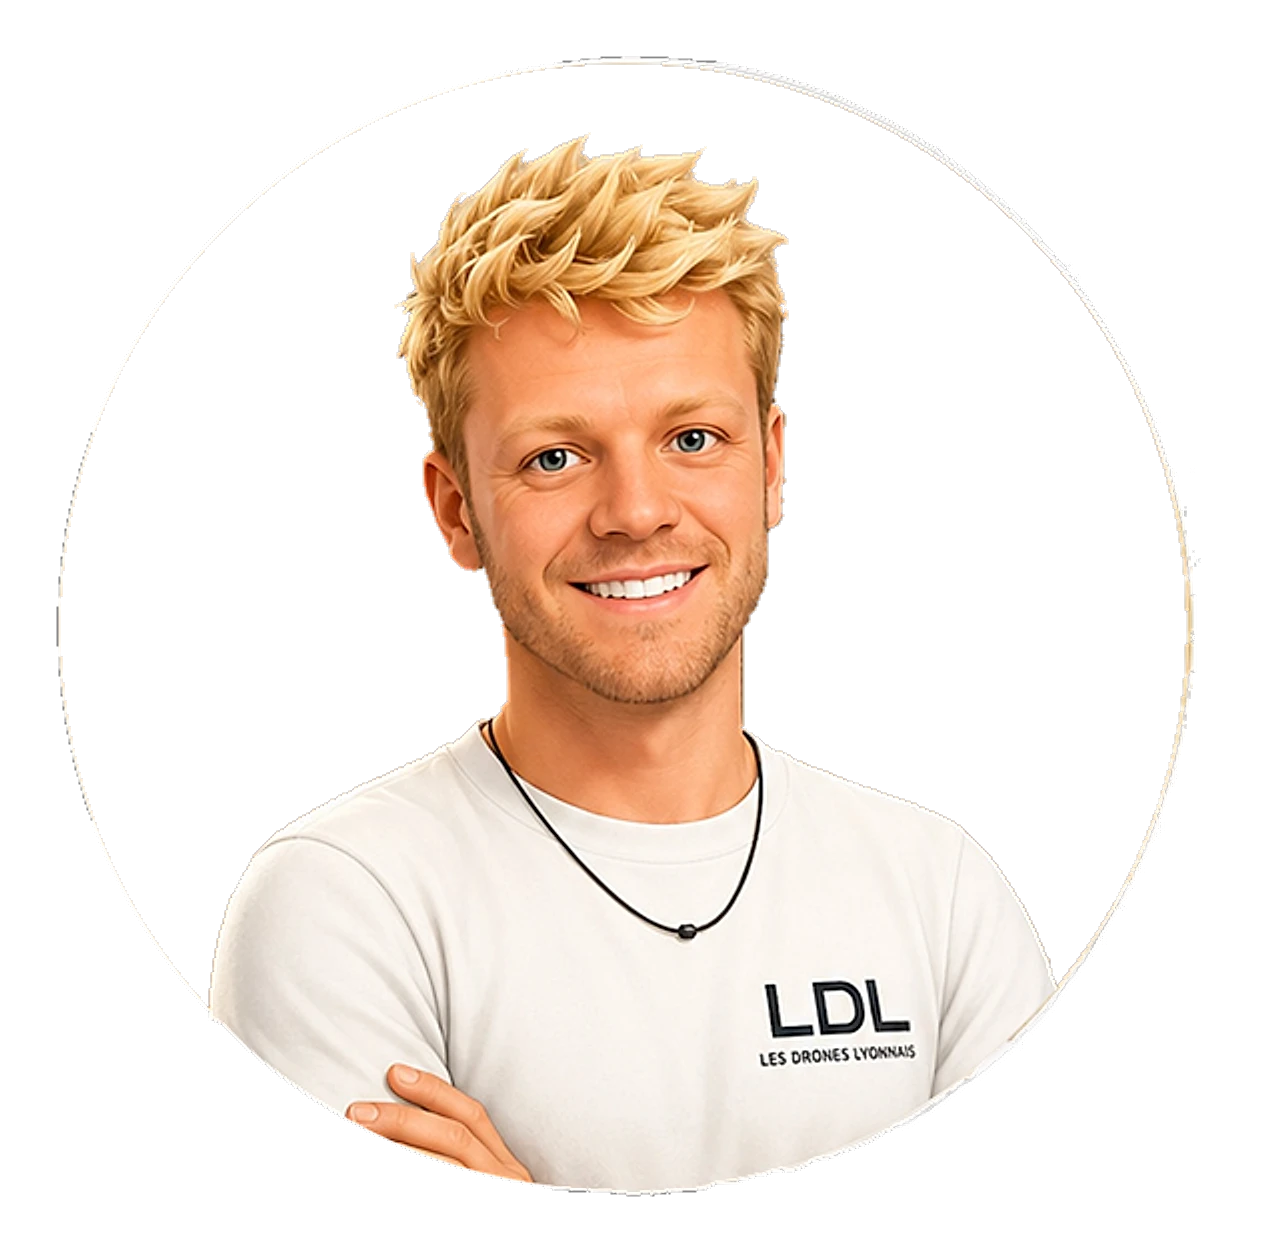
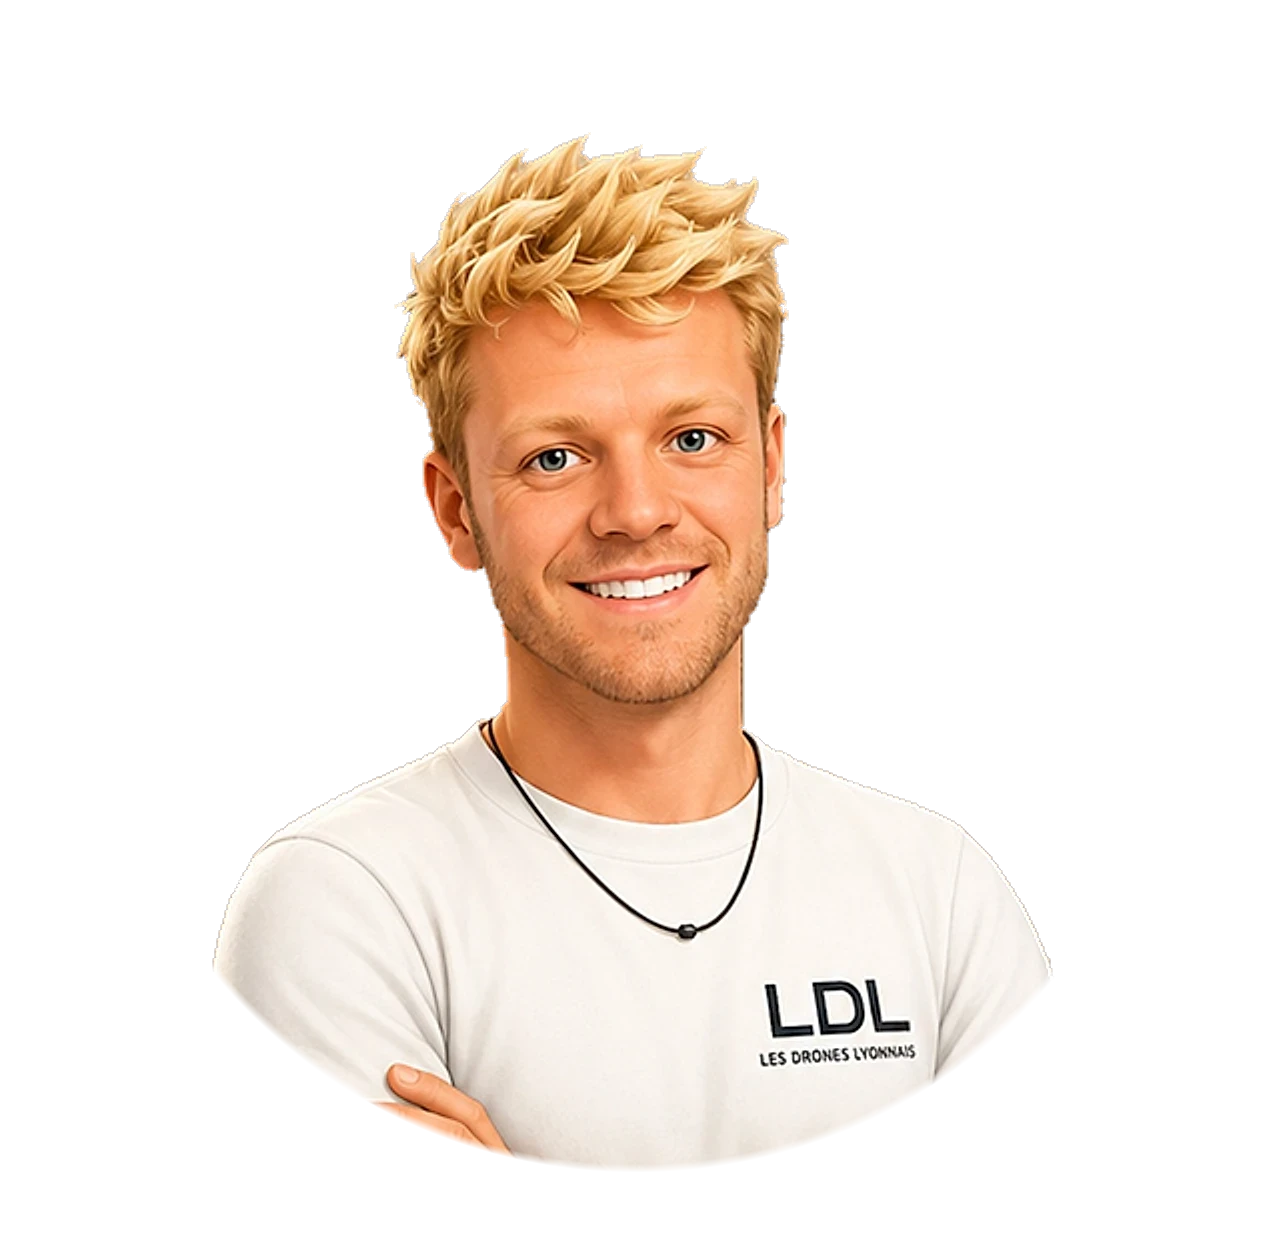
Accueil : portraits vivants de l'équipe
Les photos d'origine prennent vie en WebGL, sans bibliothèque : respiration
du buste, micro-mouvements de tête, regard et rotation de tête qui suivent
la souris (ou regardent autour en l'absence de souris), clignements avec
paupières dans la couleur de la peau, Pop qui halète. Repères par photo
dans data/home.ts. Rendu seulement quand le portrait est visible ; photo
fixe sans WebGL ou en mouvement réduit. Cercle résiduel des avatars
d'origine effacé.

diff --git a/src/lib/live-portrait.ts b/src/lib/live-portrait.ts
@@ -1,0 +1,294 @@
+// Living portraits: the team's own photos, brought to life in WebGL without any library.
+// One fragment shader warps the still photo by zones, driven by a few landmarks per
+// photo (eyes, head, chin; tongue for Pop):
+// - breathing: the chest and shoulders rise and widen slightly;
+// - the head sways, turns towards the pointer (inner features move more than the
+//   outline, which reads as a 3D turn) and the irises follow it;
+// - the eyes blink: eyelids drawn in the colour of the skin under each eye;
+// - Pop pants (his tongue stretches) and blinks.
+// Until WebGL is ready — or without it, or with reduced motion — the plain photo shows.
+
+export interface PortraitRig {
+  /** Eye centres and half-sizes, in texture coordinates (0–1, origin top left). */
+  eyes: [cx: number, cy: number, hw: number, hh: number][];
+  /** Head centre and radii. */
+  head: [cx: number, cy: number, rx: number, ry: number];
+  /** Where the chin meets the neck. */
+  chin: number;
+  /** Pop's tongue: centre x, top y, half width, height. */
+  tongue?: [cx: number, top: number, hw: number, h: number];
+}
+
+const VERT = `
+attribute vec2 aPos;
+varying vec2 vUv;
+void main() {
+  vUv = vec2(aPos.x * 0.5 + 0.5, 0.5 - aPos.y * 0.5);
+  gl_Position = vec4(aPos, 0.0, 1.0);
+}`;
+
+const FRAG = `
+precision highp float;
+varying vec2 vUv;
+uniform sampler2D uTex;
+uniform vec2 uCover;
+uniform vec2 uLook;
+uniform float uTime, uBlink, uBreath, uPant, uDog;
+uniform vec4 uEyeL, uEyeR, uHead, uTongue;
+uniform float uChin;
+
+vec2 rot(vec2 p, vec2 piv, float a) {
+  p -= piv;
+  float c = cos(a), s = sin(a);
+  return vec2(c * p.x - s * p.y, s * p.x + c * p.y) + piv;
+}
+
+float eyeMask(vec2 uv, vec4 e) {
+  return 1.0 - smoothstep(0.5, 1.0, length((uv - e.xy) / e.zw));
+}
+
+vec3 lid(vec3 col, vec2 src, vec4 e) {
+  vec2 q = (src - e.xy) / e.zw;
+  float zone = 1.0 - smoothstep(1.05, 1.35, length(q * vec2(0.92, 0.75)));
+  float lidY = mix(-1.5, 1.15, uBlink);
+  float cover = smoothstep(lidY + 0.2, lidY - 0.2, q.y) * zone;
+  // Eyelid colour: the skin of the cheek just under the eye (above it lies the brow).
+  vec3 skin = texture2D(uTex, e.xy + vec2(0.0, e.w * 3.2)).rgb;
+  skin *= mix(1.0, 0.86, smoothstep(lidY - 0.9, lidY, q.y));
+  col = mix(col, skin, cover);
+  float lash = (1.0 - smoothstep(0.0, 0.22, abs(q.y - lidY))) * zone * smoothstep(0.08, 0.3, uBlink);
+  return mix(col, vec3(0.13, 0.08, 0.06), lash * 0.75);
+}
+
+void main() {
+  // Square canvas over a (nearly square) photo, "object-fit: cover".
+  vec2 uv = 0.5 + (vUv - 0.5) * uCover;
+
+  // Breathing: chest and shoulders rise and widen.
+  float body = smoothstep(uChin - 0.02, uChin + 0.2, uv.y);
+  vec2 shiftBody = vec2((uv.x - uHead.x) * uBreath * 0.012, -uBreath * 0.006) * body;
+
+  // Head: sway, turn towards the pointer, slight roll around the neck.
+  float hd = length((uv - uHead.xy) / uHead.zw);
+  float wHead = 1.0 - smoothstep(0.85, 1.3, hd);
+  float wInner = 1.0 - smoothstep(0.25, 0.8, hd);
+  float roll = uLook.x * 0.03 + sin(uTime * 0.55) * 0.012;
+  vec2 piv = vec2(uHead.x, uChin + 0.05);
+  vec2 shiftHead = uLook * vec2(0.010, 0.007)
+    + vec2(sin(uTime * 0.43) * 0.003, sin(uTime * 0.71) * 0.002 - uBreath * 0.002)
+    + (uv - rot(uv, piv, -roll))
+    + uLook * vec2(0.009, 0.006) * wInner;
+
+  vec2 shift = mix(shiftBody, shiftHead, wHead);
+
+  // Irises follow the pointer inside each eye.
+  vec2 irisL = uLook * vec2(uEyeL.z * 0.22, uEyeL.w * 0.22);
+  vec2 irisR = uLook * vec2(uEyeR.z * 0.22, uEyeR.w * 0.22);
+  shift += (irisL * eyeMask(uv, uEyeL) + irisR * eyeMask(uv, uEyeR)) * wHead;
+
+  // Pop pants: the tongue stretches down from its root.
+  if (uDog > 0.5) {
+    vec2 tq = (uv - vec2(uTongue.x, uTongue.y + uTongue.w * 0.5)) / vec2(uTongue.z * 1.3, uTongue.w * 0.75);
+    float tm = 1.0 - smoothstep(0.75, 1.25, length(tq));
+    shift.y += (uv.y - uTongue.y) * 0.16 * uPant * tm;
+  }
+
+  vec2 src = uv - shift;
+  vec4 col = texture2D(uTex, src);
+  if (uBlink > 0.001) {
+    col.rgb = lid(col.rgb, src, uEyeL);
+    col.rgb = lid(col.rgb, src, uEyeR);
+  }
+  gl_FragColor = col;
+}`;
+
+interface Live {
+  canvas: HTMLCanvasElement;
+  gl: WebGLRenderingContext;
+  u: Record<string, WebGLUniformLocation | null>;
+  rig: PortraitRig;
+  look: [number, number];
+  target: [number, number];
+  blink: { next: number; start: number; double: boolean };
+  seed: number;
+  visible: boolean;
+}
+
+const lives: Live[] = [];
+let pointer: [number, number] | null = null;
+let lastPointer = 0;
+let raf = 0;
+
+function compile(gl: WebGLRenderingContext, type: number, src: string) {
+  const s = gl.createShader(type)!;
+  gl.shaderSource(s, src);
+  gl.compileShader(s);
+  if (!gl.getShaderParameter(s, gl.COMPILE_STATUS)) throw new Error(gl.getShaderInfoLog(s) ?? 'shader');
+  return s;
+}
+
+function setup(canvas: HTMLCanvasElement, img: HTMLImageElement, rig: PortraitRig): Live | null {
+  const gl = canvas.getContext('webgl', { premultipliedAlpha: true, alpha: true, antialias: false });
+  if (!gl) return null;
+  const prog = gl.createProgram()!;
+  gl.attachShader(prog, compile(gl, gl.VERTEX_SHADER, VERT));
+  gl.attachShader(prog, compile(gl, gl.FRAGMENT_SHADER, FRAG));
+  gl.linkProgram(prog);
+  if (!gl.getProgramParameter(prog, gl.LINK_STATUS)) return null;
+  gl.useProgram(prog);
+
+  const buf = gl.createBuffer();
+  gl.bindBuffer(gl.ARRAY_BUFFER, buf);
+  gl.bufferData(gl.ARRAY_BUFFER, new Float32Array([-1, -1, 1, -1, -1, 1, 1, 1]), gl.STATIC_DRAW);
+  const aPos = gl.getAttribLocation(prog, 'aPos');
+  gl.enableVertexAttribArray(aPos);
+  gl.vertexAttribPointer(aPos, 2, gl.FLOAT, false, 0, 0);
+
+  const tex = gl.createTexture();
+  gl.bindTexture(gl.TEXTURE_2D, tex);
+  gl.pixelStorei(gl.UNPACK_PREMULTIPLY_ALPHA_WEBGL, true);
+  gl.texImage2D(gl.TEXTURE_2D, 0, gl.RGBA, gl.RGBA, gl.UNSIGNED_BYTE, img);
+  gl.texParameteri(gl.TEXTURE_2D, gl.TEXTURE_MIN_FILTER, gl.LINEAR);
+  gl.texParameteri(gl.TEXTURE_2D, gl.TEXTURE_MAG_FILTER, gl.LINEAR);
+  gl.texParameteri(gl.TEXTURE_2D, gl.TEXTURE_WRAP_S, gl.CLAMP_TO_EDGE);
+  gl.texParameteri(gl.TEXTURE_2D, gl.TEXTURE_WRAP_T, gl.CLAMP_TO_EDGE);
+
+  const names = ['uTex', 'uCover', 'uLook', 'uTime', 'uBlink', 'uBreath', 'uPant', 'uDog', 'uEyeL', 'uEyeR', 'uHead', 'uTongue', 'uChin'];
+  const u = Object.fromEntries(names.map((n) => [n, gl.getUniformLocation(prog, n)]));
+
+  // Cover: crop the longer side of the photo so it fills the square canvas.
+  const ar = img.naturalWidth / img.naturalHeight;
+  gl.uniform2f(u.uCover, ar > 1 ? 1 / ar : 1, ar > 1 ? 1 : ar);
+  const [l, r] = rig.eyes;
+  gl.uniform4f(u.uEyeL, ...l);
+  gl.uniform4f(u.uEyeR, ...(r ?? l));
+  gl.uniform4f(u.uHead, ...rig.head);
+  gl.uniform1f(u.uChin, rig.chin);
+  gl.uniform4f(u.uTongue, ...(rig.tongue ?? [0, 0, 0, 0]));
+  gl.uniform1f(u.uDog, rig.tongue ? 1 : 0);
+
+  return {
+    canvas,
+    gl,
+    u,
+    rig,
+    look: [0, 0],
+    target: [0, 0],
+    blink: { next: performance.now() + 1200 + Math.random() * 2500, start: -1, double: false },
+    seed: Math.random() * 100,
+    visible: false,
+  };
+}
+
+function resize(live: Live) {
+  const dpr = Math.min(devicePixelRatio || 1, 2);
+  const w = Math.round(live.canvas.clientWidth * dpr);
+  if (w > 0 && live.canvas.width !== w) {
+    live.canvas.width = w;
+    live.canvas.height = w;
+    live.gl.viewport(0, 0, w, w);
+  }
+}
+
+// Eyelid position over a blink: quick close, slightly slower open.
+function blinkAmount(live: Live, now: number) {
+  const b = live.blink;
+  if (b.start < 0 && now >= b.next) b.start = now;
+  if (b.start < 0) return 0;
+  const t = now - b.start;
+  const CLOSE = 70;
+  const OPEN = 110;
+  if (t < CLOSE) return t / CLOSE;
+  if (t < CLOSE + OPEN) return 1 - (t - CLOSE) / OPEN;
+  if (b.double) {
+    b.double = false;
+    b.start = now + 90;
+    b.next = b.start;
+    return 0;
+  }
+  b.start = -1;
+  b.next = now + 2200 + Math.random() * 3800;
+  b.double = Math.random() < 0.2;
+  return 0;
+}
+
+function frame(now: number) {
+  raf = 0;
+  const t = now / 1000;
+  const idle = now - lastPointer > 2500;
+  let any = false;
+  for (const live of lives) {
+    if (!live.visible) continue;
+    any = true;
+    // In the pinned team stage only the member in focus is shown.
+    if (live.canvas.closest('[data-card]:not([data-active])') && innerWidth >= 1024) continue;
+    resize(live);
+    // Where to look: the pointer, or an idle glance around the room.
+    if (pointer && !idle) {
+      const r = live.canvas.getBoundingClientRect();
+      const dx = (pointer[0] - (r.left + r.width / 2)) / Math.max(innerWidth * 0.4, 1);
+      const dy = (pointer[1] - (r.top + r.height * 0.4)) / Math.max(innerHeight * 0.4, 1);
+      live.target = [Math.max(-1, Math.min(1, dx)), Math.max(-1, Math.min(1, dy))];
+    } else {
+      const s = live.seed;
+      live.target = [Math.sin(t * 0.35 + s) * 0.55, Math.sin(t * 0.23 + s * 2) * 0.3];
+    }
+    live.look[0] += (live.target[0] - live.look[0]) * 0.06;
+    live.look[1] += (live.target[1] - live.look[1]) * 0.06;
+
+    const { gl, u } = live;
+    gl.uniform2f(u.uLook, live.look[0], live.look[1]);
+    gl.uniform1f(u.uTime, t + live.seed);
+    gl.uniform1f(u.uBreath, Math.sin((t + live.seed) * ((2 * Math.PI) / 4.2)));
+    gl.uniform1f(u.uPant, (Math.sin((t + live.seed) * 2 * Math.PI * 1.6) + 1) / 2);
+    gl.uniform1f(u.uBlink, blinkAmount(live, now));
+    gl.clearColor(0, 0, 0, 0);
+    gl.clear(gl.COLOR_BUFFER_BIT);
+    gl.drawArrays(gl.TRIANGLE_STRIP, 0, 4);
+  }
+  if (any) raf = requestAnimationFrame(frame);
+}
+
+function kick() {
+  if (!raf) raf = requestAnimationFrame(frame);
+}
+
+export function initLivePortraits() {
+  if (matchMedia('(prefers-reduced-motion: reduce)').matches) return;
+  const io = new IntersectionObserver((entries) => {
+    for (const e of entries) {
+      const live = lives.find((l) => l.canvas === e.target);
+      if (live) live.visible = e.isIntersecting;
+    }
+    kick();
+  });
+
+  document.querySelectorAll<HTMLCanvasElement>('canvas[data-rig]').forEach((canvas) => {
+    const rig = JSON.parse(canvas.dataset.rig!) as PortraitRig;
+    const img = new Image();
+    img.decoding = 'async';
+    img.src = canvas.dataset.src!;
+    img.decode().then(() => {
+      try {
+        const live = setup(canvas, img, rig);
+        if (!live) return;
+        lives.push(live);
+        io.observe(canvas);
+        canvas.classList.add('is-live');
+      } catch {
+        /* No WebGL: the still photo stays. */
+      }
+    });
+  });
+
+  addEventListener('scroll', kick, { passive: true });
+  addEventListener(
+    'pointermove',
+    (e) => {
+      pointer = [e.clientX, e.clientY];
+      lastPointer = performance.now();
+      kick();
+    },
+    { passive: true },
+  );
+}

diff --git a/src/data/home.ts b/src/data/home.ts
@@ -2,6 +2,7 @@
 // reorganised; links point to the URLs already indexed on the WordPress site.
 import type { ImageMetadata } from 'astro';
 import { servicesOf, type Service } from './services';
+import type { PortraitRig } from '../lib/live-portrait';
 import dylan from '../assets/team/dylan.webp';
 import theo from '../assets/team/theo.webp';
 import margot from '../assets/team/margot.webp';
@@ -48,8 +49,10 @@ export interface Member {
   role: string;
   bio: string;
   skills: string[];
-  /** Cut-out portrait (transparent background), shown in black and white until active. */
+  /** Cut-out portrait (transparent background). */
   photo: ImageMetadata;
+  /** Landmarks on the photo that bring it to life (lib/live-portrait.ts). */
+  rig: PortraitRig;
 }
 
 export const TEAM: Member[] = [
@@ -59,6 +62,7 @@ export const TEAM: Member[] = [
     bio: 'À l’origine des Drones Lyonnais, il dirige les opérations aériennes et intervient sur les projets techniques complexes et l’audiovisuel haut de gamme.',
     skills: ['Direction de projet', 'Pilotage drone', 'Photogrammétrie 3D', 'Thermographie', 'Audiovisuel'],
     photo: dylan,
+    rig: { eyes: [[0.435, 0.367, 0.03, 0.012], [0.548, 0.357, 0.028, 0.011]], head: [0.495, 0.4, 0.15, 0.2], chin: 0.56 },
   },
   {
     name: 'Théo',
@@ -66,6 +70,7 @@ export const TEAM: Member[] = [
     bio: 'Issu d’une école de cinéma, il signe la réalisation de nos productions et forme nos stagiaires aux métiers des médias et de la communication.',
     skills: ['Réalisation', 'Cadrage', 'Drone cinéma', 'FPV', 'Montage vidéo'],
     photo: theo,
+    rig: { eyes: [[0.427, 0.352, 0.032, 0.011], [0.555, 0.34, 0.03, 0.011]], head: [0.495, 0.39, 0.15, 0.2], chin: 0.575 },
   },
   {
     name: 'Margot',
@@ -73,6 +78,7 @@ export const TEAM: Member[] = [
     bio: 'Elle suit chaque projet de près, organise les missions et fait vivre l’image de l’entreprise sur nos supports.',
     skills: ['Relation client', 'Organisation des projets', 'Suivi administratif', 'Réseaux sociaux'],
     photo: margot,
+    rig: { eyes: [[0.4, 0.346, 0.03, 0.01], [0.521, 0.338, 0.027, 0.01]], head: [0.465, 0.37, 0.14, 0.19], chin: 0.53 },
   },
   {
     name: 'Pop',
@@ -80,6 +86,7 @@ export const TEAM: Member[] = [
     bio: 'Toujours au bureau, il accueille les visiteurs et accompagne parfois l’équipe en tournage.',
     skills: ['Accueil des visiteurs', 'Moral des troupes', 'Expert officiel en câlins'],
     photo: pop,
+    rig: { eyes: [[0.415, 0.417, 0.03, 0.013], [0.567, 0.417, 0.028, 0.013]], head: [0.5, 0.43, 0.24, 0.26], chin: 0.72, tongue: [0.5, 0.585, 0.045, 0.14] },
   },
 ];
 

diff --git a/.claude/CLAUDE.md b/.claude/CLAUDE.md
@@ -66,8 +66,10 @@ public/            fonts, favicon, robots.txt
 - Services: "same drone, different sensors" — a pinned control screen shows each
   service through its camera mode (SVG filters: thermal, survey; overlays for mesh,
   detection, cinema, live, grading). Photos from the current site, in src/assets/services.
-- Team: real photos, cut out (src/assets/team), shown by components/ui/Portrait.astro
-  in black and white, colour when in focus. Illustrated or traced avatars were tried
+- Team: real photos, cut out (src/assets/team), brought to life in WebGL by
+  lib/live-portrait.ts (breathing, blinking, head and eyes following the pointer, Pop
+  panting), driven by landmarks per photo (`rig` in data/home.ts — update them if a
+  photo changes). Still photo as fallback and under reduced motion. Illustrated or traced avatars were tried
   and rejected by the client: keep real photos.
 - Coverage: pinned map of France (src/data/france-map.ts, IGN Admin Express, Licence
   ouverte — keep the credit) zooming to Lyon on scroll; "Toute la France" overrides.
